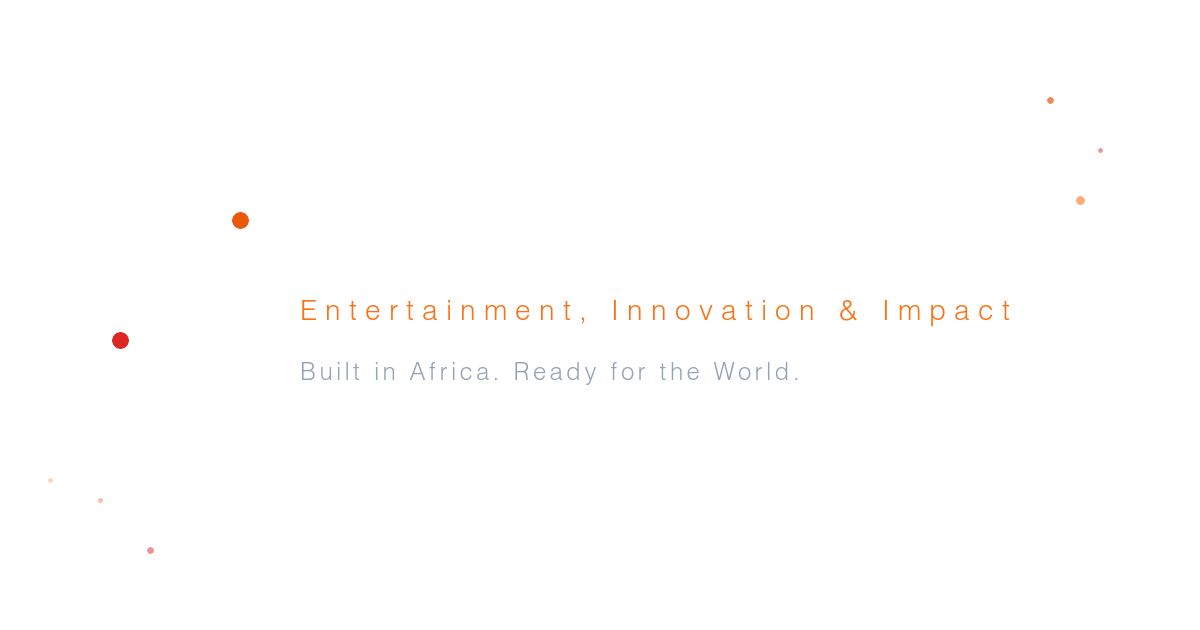
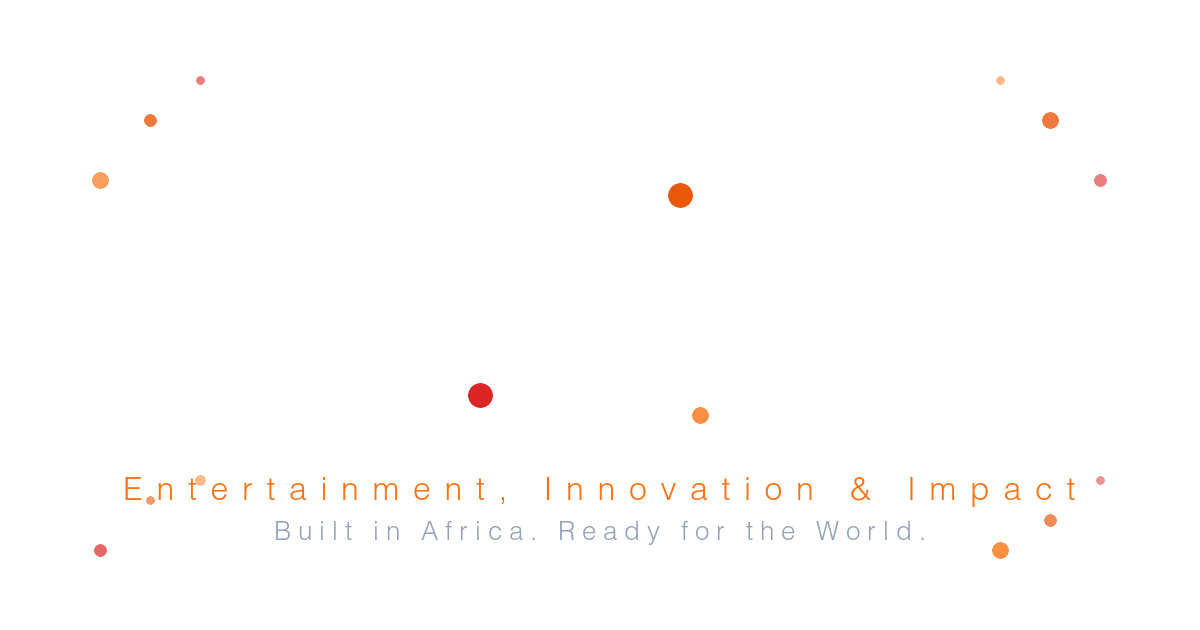
Fix bullet alignment, enhance About page containers, and improve social sharing image
Bullet Point Alignment:
- Fix Studios page Production Capabilities bullet alignment with proper spacing
- Use larger 1.5px bullets with flex-shrink-0 and mt-2 for perfect alignment
- Apply same treatment as Impact page for consistency across all sections

About Page Container Enhancements:
- Upgrade founder cards with better visual hierarchy and equal heights
- Add gradient backgrounds and border effects to Mission/Vision cards
- Enhance timeline cards with improved spacing and hover states
- Add icon size increases and better contrast for professional look

Social Sharing Image Improvements:
- Create larger, more prominent social sharing image with brand colors
- Center logo design with bigger elements for better visibility
- Replace white background with rich gradient using brand colors
- Add subtle grid pattern and enhanced decorative elements
- Regenerate PNG version for better iMessage compatibility

All changes maintain brand consistency while improving visual impact and user experience.

diff --git a/src/app/about/page.tsx b/src/app/about/page.tsx
@@ -132,10 +132,10 @@ export default function AboutPage() {
           <div className="grid md:grid-cols-2 gap-16">
             {founders.map((founder, index) => (
               <AnimatedElement key={index} animation="slide" direction={index === 0 ? "left" : "right"} delay={index * 0.2}>
-                <div className="relative bg-white/[0.02] backdrop-blur-xl rounded-2xl border border-white/10 hover:border-blue-400/20 overflow-hidden transition-all duration-150 hover:bg-white/[0.04] p-8">
-                  <div className="relative z-10">
+                <div className="relative bg-white/[0.02] backdrop-blur-xl rounded-2xl border border-white/10 hover:border-blue-400/20 overflow-hidden transition-all duration-150 hover:bg-white/[0.04] group h-full flex flex-col">
+                  <div className="relative z-10 p-8 flex-1 flex flex-col">
                     <div className="flex flex-col items-center text-center mb-8">
-                      <div className="relative w-48 h-48 mb-6 rounded-full overflow-hidden bg-gradient-to-br from-blue-500/20 to-purple-600/20 flex items-center justify-center">
+                      <div className="relative w-48 h-48 mb-6 rounded-full overflow-hidden bg-gradient-to-br from-blue-500/20 to-purple-600/20 flex items-center justify-center border border-blue-400/30 group-hover:border-blue-400/50 transition-colors duration-150">
                         <Users className="w-24 h-24 text-blue-300" />
                       </div>
                       <h3 className="text-3xl font-light text-white mb-2 tracking-tight" style={{fontFamily: 'var(--font-orbitron)'}}>
@@ -144,14 +144,14 @@ export default function AboutPage() {
                       <p className="text-blue-400 font-medium text-lg">{founder.title}</p>
                     </div>
                     
-                    <div className="space-y-6 text-white/80">
+                    <div className="space-y-6 text-white/80 flex-1">
                       <p className="leading-relaxed font-light">{founder.description}</p>
                       
                       <div className="space-y-3">
                         {founder.credentials.map((credential, credIndex) => (
-                          <div key={credIndex} className="flex items-center gap-3">
-                            <Award className="w-4 h-4 text-blue-400 flex-shrink-0" />
-                            <span className="text-sm">{credential}</span>
+                          <div key={credIndex} className="flex items-start gap-3">
+                            <Award className="w-4 h-4 text-blue-400 flex-shrink-0 mt-1" />
+                            <span className="text-sm leading-relaxed">{credential}</span>
                           </div>
                         ))}
                       </div>
@@ -171,15 +171,17 @@ export default function AboutPage() {
         <div className="max-w-6xl mx-auto">
           <div className="grid md:grid-cols-2 gap-16">
             <AnimatedElement animation="slide" direction="left">
-              <div className="relative bg-white/[0.02] backdrop-blur-xl rounded-2xl border border-white/10 hover:border-blue-400/20 overflow-hidden transition-all duration-150 hover:bg-white/[0.04] p-8 h-full">
-                <div className="relative z-10">
-                  <div className="w-12 h-12 bg-blue-500/20 rounded-xl flex items-center justify-center mb-6">
-                    <Target className="w-6 h-6 text-blue-300" />
+              <div className="relative bg-gradient-to-br from-blue-500/5 to-blue-600/10 backdrop-blur-xl rounded-2xl border border-blue-400/20 hover:border-blue-400/40 overflow-hidden transition-all duration-150 hover:bg-gradient-to-br hover:from-blue-500/10 hover:to-blue-600/15 group h-full">
+                <div className="relative z-10 p-8 h-full flex flex-col">
+                  <div className="mb-6">
+                    <div className="w-16 h-16 bg-blue-500/20 rounded-xl flex items-center justify-center mb-6 group-hover:bg-blue-500/30 transition-colors duration-150 border border-blue-400/30">
+                      <Target className="w-8 h-8 text-blue-300" />
+                    </div>
+                    <h3 className="text-3xl font-light text-white mb-6 tracking-tight" style={{fontFamily: 'var(--font-orbitron)'}}>
+                      Our Mission
+                    </h3>
                   </div>
-                  <h3 className="text-3xl font-light text-white mb-6 tracking-tight" style={{fontFamily: 'var(--font-orbitron)'}}>
-                    Our Mission
-                  </h3>
-                  <p className="text-blue-100/60 leading-relaxed font-light">
+                  <p className="text-blue-100/70 leading-relaxed font-light text-lg flex-1">
                     To amplify nomadic voices and drive transformational change by investing in creative storytelling, groundbreaking innovations, and economic empowerment. Through film, technology, and education, we aim to eradicate global challenges and foster sustainable growth.
                   </p>
                 </div>
@@ -187,15 +189,17 @@ export default function AboutPage() {
             </AnimatedElement>
 
             <AnimatedElement animation="slide" direction="right" delay={0.2}>
-              <div className="relative bg-white/[0.02] backdrop-blur-xl rounded-2xl border border-white/10 hover:border-purple-400/20 overflow-hidden transition-all duration-150 hover:bg-white/[0.04] p-8 h-full">
-                <div className="relative z-10">
-                  <div className="w-12 h-12 bg-purple-500/20 rounded-xl flex items-center justify-center mb-6">
-                    <Globe className="w-6 h-6 text-purple-300" />
+              <div className="relative bg-gradient-to-br from-purple-500/5 to-purple-600/10 backdrop-blur-xl rounded-2xl border border-purple-400/20 hover:border-purple-400/40 overflow-hidden transition-all duration-150 hover:bg-gradient-to-br hover:from-purple-500/10 hover:to-purple-600/15 group h-full">
+                <div className="relative z-10 p-8 h-full flex flex-col">
+                  <div className="mb-6">
+                    <div className="w-16 h-16 bg-purple-500/20 rounded-xl flex items-center justify-center mb-6 group-hover:bg-purple-500/30 transition-colors duration-150 border border-purple-400/30">
+                      <Globe className="w-8 h-8 text-purple-300" />
+                    </div>
+                    <h3 className="text-3xl font-light text-white mb-6 tracking-tight" style={{fontFamily: 'var(--font-orbitron)'}}>
+                      Our Vision
+                    </h3>
                   </div>
-                  <h3 className="text-3xl font-light text-white mb-6 tracking-tight" style={{fontFamily: 'var(--font-orbitron)'}}>
-                    Our Vision
-                  </h3>
-                  <p className="text-purple-100/60 leading-relaxed font-light">
+                  <p className="text-purple-100/70 leading-relaxed font-light text-lg flex-1">
                     To drive transformational change by amplifying nomadic voices and fostering groundbreaking solutions that eradicate global challenges. Through storytelling, innovation, technology, and education, we aim to empower and reshape underserved communities and industries.
                   </p>
                 </div>
@@ -227,16 +231,16 @@ export default function AboutPage() {
                     </div>
                   </div>
                   <div className="lg:w-2/3">
-                    <div className={`relative bg-gradient-to-br ${phase.color} backdrop-blur-xl rounded-2xl border border-white/10 overflow-hidden p-8`}>
-                      <div className="relative z-10">
+                    <div className={`relative bg-gradient-to-br ${phase.color} backdrop-blur-xl rounded-2xl border border-white/20 hover:border-white/30 overflow-hidden transition-all duration-150 group`}>
+                      <div className="relative z-10 p-8">
                         <h3 className="text-2xl font-light text-white mb-6 tracking-tight" style={{fontFamily: 'var(--font-orbitron)'}}>
                           {phase.title}
                         </h3>
-                        <div className="space-y-3">
+                        <div className="space-y-4">
                           {phase.goals.map((goal, goalIndex) => (
                             <div key={goalIndex} className="flex items-start gap-3">
-                              <CheckCircle className="w-5 h-5 text-green-400 flex-shrink-0 mt-0.5" />
-                              <span className="text-white/90 font-light">{goal}</span>
+                              <CheckCircle className="w-5 h-5 text-green-400 flex-shrink-0 mt-1" />
+                              <span className="text-white/90 font-light leading-relaxed">{goal}</span>
                             </div>
                           ))}
                         </div>

diff --git a/src/app/studios/page.tsx b/src/app/studios/page.tsx
@@ -221,11 +221,11 @@ export default function StudiosPage() {
                       <p className="text-amber-100/60 mb-8 leading-relaxed font-light">{capability.description}</p>
                     </div>
                     
-                    <div className="mt-auto space-y-2">
+                    <div className="mt-auto space-y-3">
                       {capability.features.map((feature, featureIndex) => (
-                        <div key={featureIndex} className="flex items-center gap-2">
-                          <div className="w-1 h-1 bg-amber-400 rounded-full" />
-                          <span className="text-white/80 text-sm">{feature}</span>
+                        <div key={featureIndex} className="flex items-start gap-3">
+                          <div className="w-1.5 h-1.5 bg-amber-400 rounded-full mt-2 flex-shrink-0" />
+                          <span className="text-white/80 text-sm leading-relaxed">{feature}</span>
                         </div>
                       ))}
                     </div>
